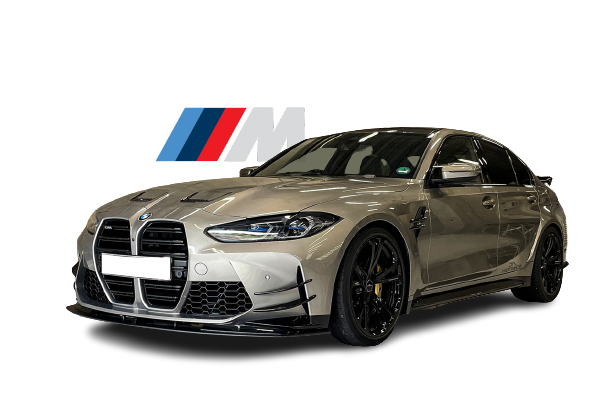
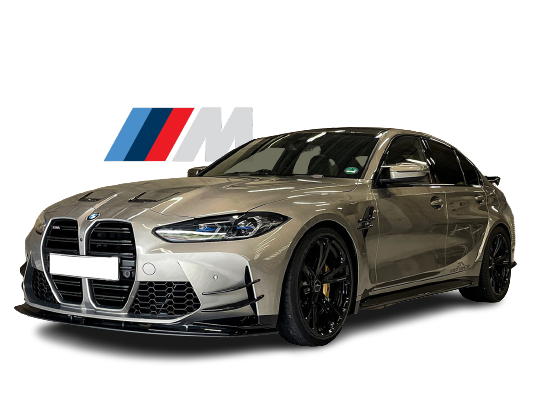
update produits

Changed region(s): [[0.0299, 0.2654, 0.9869, 0.8845], [0.7477, 0.6192, 0.7776, 0.6486]]

diff --git a/css/style.css b/css/style.css
@@ -57,3 +57,9 @@ a{
     opacity: 80%;
     color : black;
 }
+
+.img-produits{
+    width: 510px;
+    height: 370px;
+}
+

diff --git a/modele/fonctions.php b/modele/fonctions.php
@@ -16,6 +16,8 @@ function getDb()
 
 //page produits 
 
+
+
 function produitsDiv($param)
 {
     echo '<div class="container-fluid d-flex justify-content-center"><div class="row mt-5">';
@@ -23,7 +25,7 @@ function produitsDiv($param)
         echo '
             <div class="col-sm-4">
                 <div class="card">
-                    <img src="../img/' . $row['nameImage'] . '" class="card-img-top" width="100%">
+                    <img src="../img/produits/' . $row['nameImage'] . '" class="img-produits">
                     <div class="card-body pt-0 px-0">
                         <div class="d-flex flex-row justify-content-between mb-0 px-3">
                             <small class="text-muted mt-1">STARTING AT</small>
